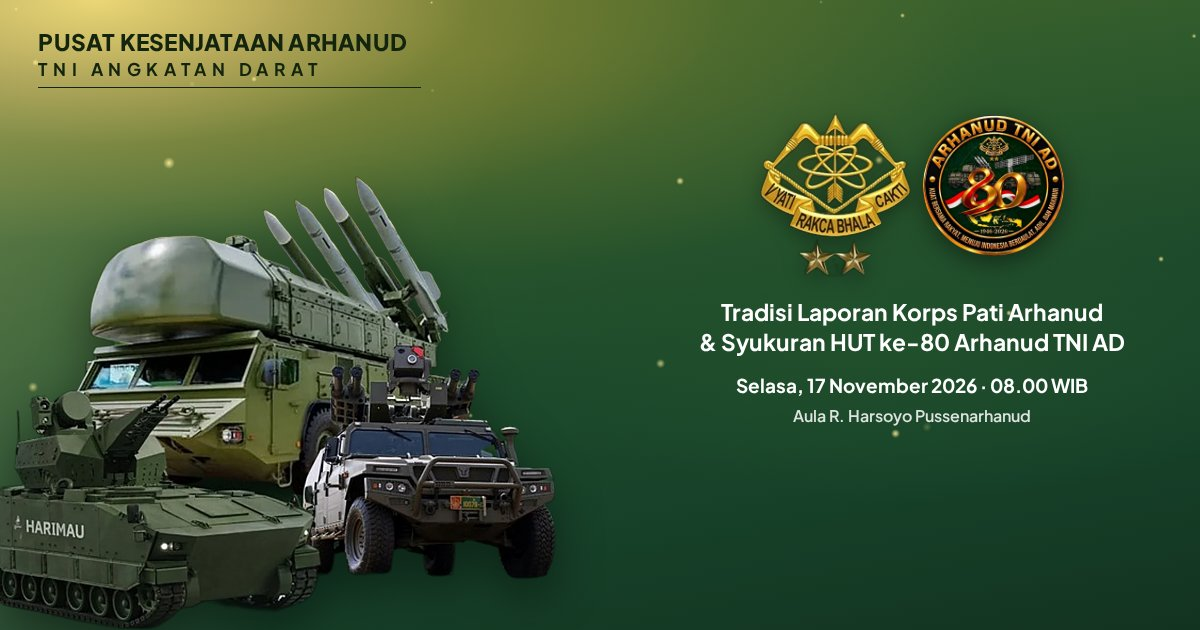
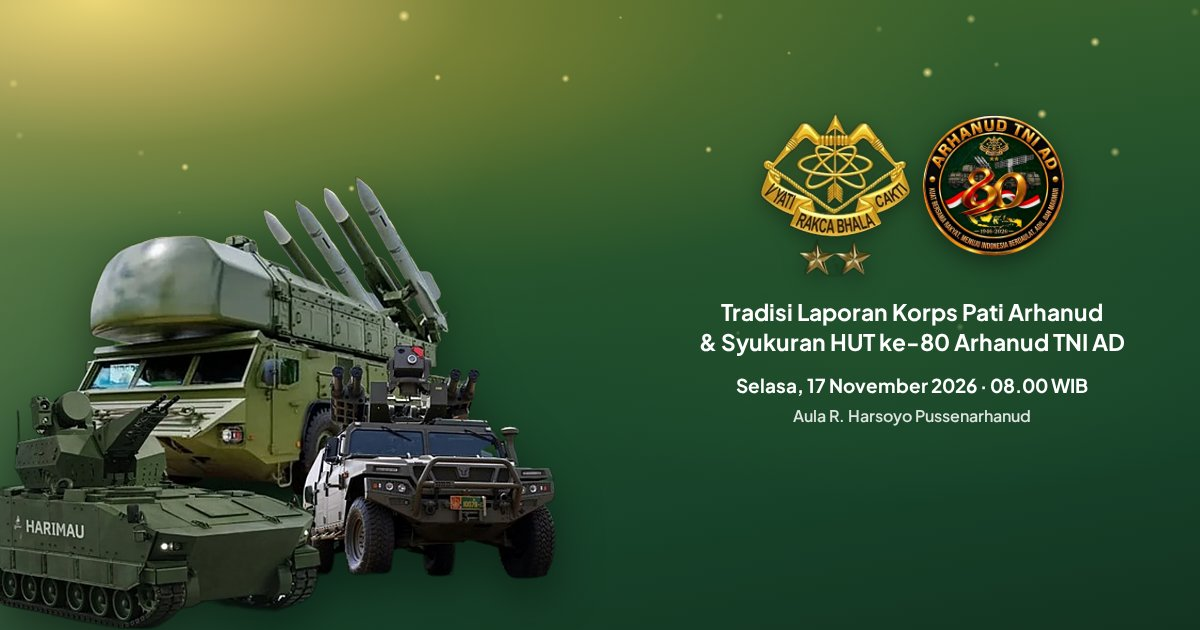
Lampiran: hapus kop surat, ganti Rizky -> Rizki

Changed region(s): [[0.0308, 0.0302, 0.3392, 0.1508], [0.1233, 0.2413, 0.1542, 0.2714]]

diff --git a/lampiran.html b/lampiran.html
@@ -68,7 +68,7 @@ button{font:inherit;cursor:pointer;color:inherit}
 #cover{position:fixed;inset:0;z-index:100;display:flex;flex-direction:column;transition:transform 1.1s cubic-bezier(.77,0,.18,1)}
 #cover.open{transform:translateY(-100%)}
 #cover .top{position:relative;z-index:3;padding:calc(26px + env(safe-area-inset-top)) 24px 0}
-#cover .mid{position:relative;z-index:3;text-align:center;padding:4vh 22px 0}
+#cover .mid{position:relative;z-index:3;text-align:center;padding:calc(7vh + env(safe-area-inset-top)) 22px 0}
 #cover .logos{--lh:min(15vh,128px)}
 .yth{margin-top:3.2vh}
 .yth .k{font-weight:700;font-size:19px}
@@ -308,7 +308,6 @@ nav.bnav a.active,nav.bnav a:hover{color:#1b2a0f;background:linear-gradient(180d
 <div id="cover" class="cover-art" role="dialog" aria-label="Sampul undangan">
   <div class="sheen"></div>
   <div class="bokeh" data-n="26"></div>
-  <div class="top"><div class="brand"><b>PUSAT KESENJATAAN ARHANUD</b><span>TNI ANGKATAN DARAT</span></div></div>
   <div class="mid">
     <div class="logos"><img class="crest" data-src="crest" alt="Lambang Arhanud Vyati Rakca Bhala Cakti"><div class="l80-wrap"><img class="l80" data-src="logo80" alt="Logo HUT ke-80 Arhanud TNI AD"></div></div>
     <div class="yth">
@@ -326,8 +325,7 @@ nav.bnav a.active,nav.bnav a:hover{color:#1b2a0f;background:linear-gradient(180d
   <!-- panel samping desktop -->
   <aside class="side cover-art">
     <div class="sheen"></div><div class="bokeh" data-n="22"></div>
-    <div class="top"><div class="brand"><b>PUSAT KESENJATAAN ARHANUD</b><span>TNI ANGKATAN DARAT</span></div></div>
-    <div class="mid">
+      <div class="mid">
       <div class="logos"><img class="crest" data-src="crest" alt=""><div class="l80-wrap"><img class="l80" data-src="logo80" alt=""></div></div>
       <div class="ttl">Tradisi Laporan Korps Pati Arhanud<br>dan Syukuran HUT ke-80<br>Arhanud TNI AD</div>
       <div class="dt">Selasa, 17 November 2026 · 08.00 WIB<br>Aula R. Harsoyo Pussenarhanud</div>
@@ -347,7 +345,7 @@ nav.bnav a.active,nav.bnav a:hover{color:#1b2a0f;background:linear-gradient(180d
         <div class="inv-box rv">
           <h4><svg><use href="#i-info"/></svg>KETERANGAN</h4>
           <p>Dimohon hadir 15 menit sebelum acara dimulai.<br>Konfirmasi kehadiran melalui WA :</p>
-          <div class="contact-line"><p>Letkol Arh Rizky Prima<br><span style="font-weight:600;color:var(--muted)">0812-3468-8215</span></p><a class="wa-link" data-wa="0" target="_blank" rel="noopener" aria-label="WhatsApp Letkol Arh Rizky Prima"><svg><use href="#i-wa"/></svg></a></div>
+          <div class="contact-line"><p>Letkol Arh Rizki Prima<br><span style="font-weight:600;color:var(--muted)">0812-3468-8215</span></p><a class="wa-link" data-wa="0" target="_blank" rel="noopener" aria-label="WhatsApp Letkol Arh Rizki Prima"><svg><use href="#i-wa"/></svg></a></div>
           <div class="contact-line"><p>Mayor Arh Ina R<br><span style="font-weight:600;color:var(--muted)">0812-6000-653</span></p><a class="wa-link" data-wa="1" target="_blank" rel="noopener" aria-label="WhatsApp Mayor Arh Ina R"><svg><use href="#i-wa"/></svg></a></div>
         </div>
         <div class="inv-box rv d1">
@@ -448,7 +446,7 @@ nav.bnav a.active,nav.bnav a:hover{color:#1b2a0f;background:linear-gradient(180d
         <a class="btn" id="tokenBtn"><svg><use href="#i-send"/></svg>KONFIRMASI &amp; KARTU QR</a>
       </div>
       <div class="cp-grid">
-        <div class="cp rv"><div class="av">RP</div><div><div class="nm">Letkol Arh Rizky Prima</div><div class="ph">0812-3468-8215</div></div><a class="btn wa wa-link" data-wa="0" target="_blank" rel="noopener"><svg><use href="#i-wa"/></svg>CHAT</a></div>
+        <div class="cp rv"><div class="av">RP</div><div><div class="nm">Letkol Arh Rizki Prima</div><div class="ph">0812-3468-8215</div></div><a class="btn wa wa-link" data-wa="0" target="_blank" rel="noopener"><svg><use href="#i-wa"/></svg>CHAT</a></div>
         <div class="cp rv d1"><div class="av">IR</div><div><div class="nm">Mayor Arh Ina R</div><div class="ph">0812-6000-653</div></div><a class="btn wa wa-link" data-wa="1" target="_blank" rel="noopener"><svg><use href="#i-wa"/></svg>CHAT</a></div>
       </div>
       <form class="rsvp rv" id="rsvpForm">
@@ -457,7 +455,7 @@ nav.bnav a.active,nav.bnav a:hover{color:#1b2a0f;background:linear-gradient(180d
         <div class="field"><label for="fSatuan">Satuan / Instansi</label><input id="fSatuan" placeholder="cth. Yonarhanud 3/YBY"></div>
         <div class="field"><label>Kehadiran</label><div class="choice"><input type="radio" name="hadir" id="h1" value="Hadir" checked><label for="h1">Hadir</label><input type="radio" name="hadir" id="h2" value="Berhalangan Hadir"><label for="h2">Berhalangan</label></div></div>
         <div class="field"><label for="fJml">Jumlah</label><select id="fJml"><option>1 orang</option><option>2 orang (beserta pendamping)</option></select></div>
-        <div class="field"><label for="fKe">Kirim ke</label><select id="fKe"><option value="0">Letkol Arh Rizky Prima</option><option value="1">Mayor Arh Ina R</option></select></div>
+        <div class="field"><label for="fKe">Kirim ke</label><select id="fKe"><option value="0">Letkol Arh Rizki Prima</option><option value="1">Mayor Arh Ina R</option></select></div>
         <div class="field"><label for="fUcapan">Ucapan untuk HUT ke-80</label><textarea id="fUcapan" placeholder="Dirgahayu Arhanud TNI AD ke-80..."></textarea></div>
         <button class="btn wa" type="submit"><svg><use href="#i-wa"/></svg>KIRIM KONFIRMASI</button>
       </form>
@@ -526,7 +524,7 @@ nav.bnav a.active,nav.bnav a:hover{color:#1b2a0f;background:linear-gradient(180d
 /* ================== KONFIGURASI ================== */
 const CONFIG = {
   kontak : [
-    {nama:"Letkol Arh Rizky Prima", wa:"6281234688215"},
+    {nama:"Letkol Arh Rizki Prima", wa:"6281234688215"},
     {nama:"Mayor Arh Ina R",        wa:"628126000653"}
   ],
   mulai  : "2026-11-17T08:00:00+07:00",
